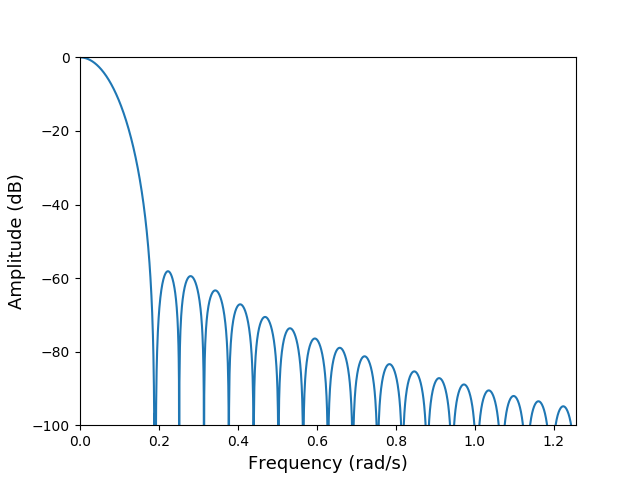
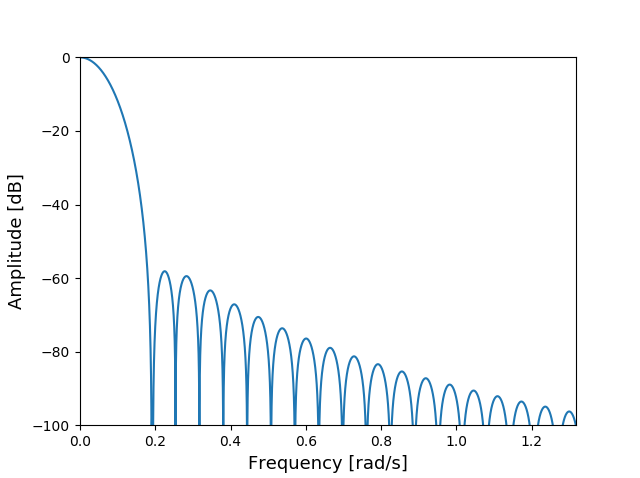
k

diff --git a/Rapport/sections/mainmatter/chapter_3/test_specifikation.tex b/Rapport/sections/mainmatter/chapter_3/test_specifikation.tex
@@ -65,11 +65,11 @@ To test the implementation it will be compared to the pre-existing FFT function 
 The filter has to fulfil certain specifications that will be defined during the filter design process in chapter \ref{ch10}. The filter will be tested on a simple known signal, where a noise signal has been digitally added. By this the frequency spectrum of both the pure signal and the noise is known and so is the signal-to-noise ratio. Hence, it is possible to verify whether the filter succeeds to remove the specified frequencies in order to reduce the noise. The verification will be made by analysing the frequency spectrum of the filtered signal compared to the original pure signal. \\
 \\
 \textbf{STFT algorithm and spectrogram}\label{sec:STFT_spec}\\
-The spectrogram is made by the Short-Time Fourier Transform described in section \ref{sec:STFT}. As the verification of the Fourier Transformation described above, the spectrogram algorithm will be tested against an existing algorithm from the Numpy-package in Python on the same data set. The algorithm will then be tested on a fixed data set with a known output which illustrates the usability of the spectrogram. The signal to be used is
+The spectrogram is made by the Short-Time Fourier Transform described in section \ref{sec:STFT}. As the verification of the Fourier Transformation described above, the spectrogram algorithm will be tested against an existing algorithm from the Numpy-package in Python on the same data set. The algorithm will then be tested on a fixed data set with a known output which illustrates the usability of the spectrogram. The discrete signal to be used is
 \begin{align}\label{eq:SPECTROsignal}
-sig(x)=\begin{cases}\sin(1000\pi x)&\text{for }x<\frac{t}{3}\\
-\sin(3000\pi x)&\text{for }\frac{t}{3}\leq x < \frac{2t}{3}\\
-\sin(1500\pi x)+\sin(1625\pi x)&\text{for }x\geq\frac{2t}{3}
+sig[n]=\begin{cases}\sin(1000\pi n)&\text{for }0\leq n<\frac{t}{3}\\
+\sin(3000\pi n)&\text{for }\frac{t}{3}\leq n < \frac{2t}{3}\\
+\sin(1500\pi n)+\sin(1625\pi n)&\text{for }\frac{2t}{3}\leq n\geq\frac{2t}{3}
 \end{cases}.
 \end{align}
 The sine waves are then with frequencies of 1, 3 and 3.25 Hz, respectively, and the signal is sampled for $t=75$ seconds at $f_s=4000$ Hz.\\

diff --git a/Rapport/sections/mainmatter/chapter_10/stft.tex b/Rapport/sections/mainmatter/chapter_10/stft.tex
@@ -44,17 +44,17 @@ The validation of the STFT and spectrograms will be done as a whole entity, and 
 \centering
 \begin{subfigure}{0.49\textwidth}
 \centering
-\includegraphics[width=0.9\textwidth]{figures/validation/stft/1.png}
-\caption{Spectrogram of signal in \eqref{eq:SPECTROsignal} generated with window of length $2^6=64$ and overlap of 2. The low spectral and high temporal resolutions follow from a narrow window used in the STFT.}
+\includegraphics[width=\textwidth]{figures/validation/stft/1.png}
+\caption{}
 \label{fig:test_stft1}
 \end{subfigure}
 \begin{subfigure}{0.49\textwidth}
 \centering
-\includegraphics[width=0.9\textwidth]{figures/validation/stft/2.png}
-\caption{Spectrogram of signal in \eqref{eq:SPECTROsignal} generated with window of length $2^{13}=8192$ and overlap of 2. The high spectral and low temporal resolutions follows from a wide window used in the STFT.}
+\includegraphics[width=\textwidth]{figures/validation/stft/2.png}
+\caption{}
 \label{fig:test_stft2}
 \end{subfigure}
-\caption{Spectrograms of the signal in \eqref{eq:SPECTROsignal} with a narrow and wide window, respectively.}
+\caption{\textbf{(a)} Spectrogram of signal in \eqref{eq:SPECTROsignal} generated with window of length $2^{13}=8192$ and overlap of 2. The high spectral and low temporal resolutions follows from a wide window used in the STFT. \textbf{(b)} Spectrogram of signal in \eqref{eq:SPECTROsignal} generated with window of length $2^6=64$ and overlap of 2. The low spectral and high temporal resolutions follow from a narrow window used in the STFT.}
 \label{fig:test_stft}
 \end{figure}
 From figure \ref{fig:test_stft} it is clearly seen how the length of the window in the STFT used for generating the spectrogram affects the resolution in time and frequency. This agrees with Heisenberg's uncertanity principle described in section \ref{sec:heisenberg}, and so there must be made a tradeoff between the two resolutions. For the purpose of this project it is decided to use a window lenght of $2^{11}=2048$ as compromise between the to extreme cases illustrated by figure \ref{fig:test_stft}. \trine{evt. input mht. optimering af fftsize?? heisenberg??\smiley } \\

diff --git a/Python/dbplots.py b/Python/dbplots.py
@@ -1,0 +1,63 @@
+# -*- coding: utf-8 -*-
+"""
+Created on Fri May 19 11:40:10 2017
+
+@author: Frederik Vardinghus
+"""
+
+
+
+
+import numpy as np
+import scipy as sc
+import matplotlib.pyplot as plt
+
+N = 2**20
+M = 2**13
+p = N-M
+beta = 6
+yaxis_max = 0.012
+bins = 2*np.pi*np.linspace(0,0.5,N/2)
+
+def fft(x):
+    return np.abs(np.fft.fft(x))/np.max(np.abs(np.fft.fft(x)))
+
+def db(x):
+    return 20*np.log10(x)
+
+def pad(x,p):
+    return np.pad(x,(0,p),'constant',constant_values=0)
+
+def k(M,beta):
+    return pad(sc.kaiser(M,beta),p)
+
+hamming = pad(sc.hamming(M),p)
+hann = pad(sc.hanning(M),p)
+bartlett= pad(sc.bartlett(M),p)
+blackman = pad(sc.blackman(M),p)
+kaiser = k(M,beta)
+
+i = 0
+while bins[i] < yaxis_max:
+    inter = i
+    i += 1
+
+plt.plot(bins[:inter],db(fft(k(M,10))[:inter]))
+plt.xlabel('Frequency [rad/s]',fontsize=13)
+plt.ylabel('Amplitude [dB]',fontsize=13)
+plt.axis([0,bins[inter-1],-100,0])
+
+
+
+
+
+
+
+
+
+
+
+
+
+
+

diff --git a/Rapport/sections/mainmatter/chapter_8/design.tex b/Rapport/sections/mainmatter/chapter_8/design.tex
@@ -207,7 +207,7 @@ Blackman    &  $w[n] =
 \caption{Hamming}
 \label{fig:hamming_db}
 \end{subfigure}
-\caption{(a) Different window functions in time domain of order $M=100$ (b, c, d) dB amplitude of frequency response of chosen windows of order $M=100$.}
+\caption{\textbf{(a)} Different window functions in time domain of order $M=100$. \textbf{(b)}, \textbf{(c)} and \textbf{(d)} dB amplitude of frequency response of chosen windows of order $M=100$.}
 \label{fig:windows}
 \end{figure}
 
